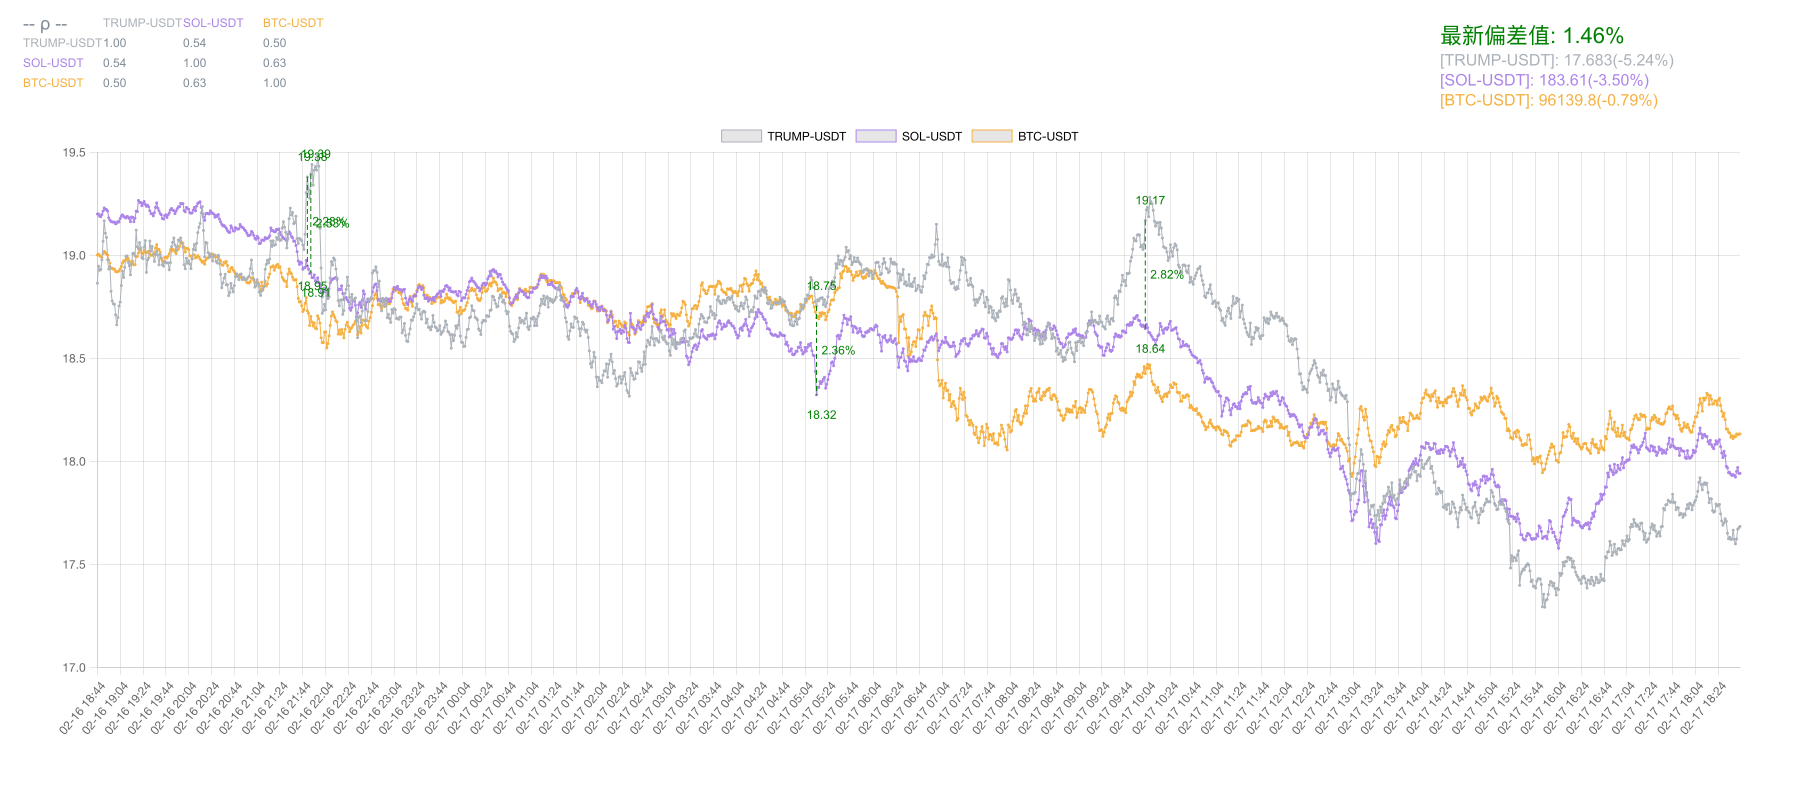
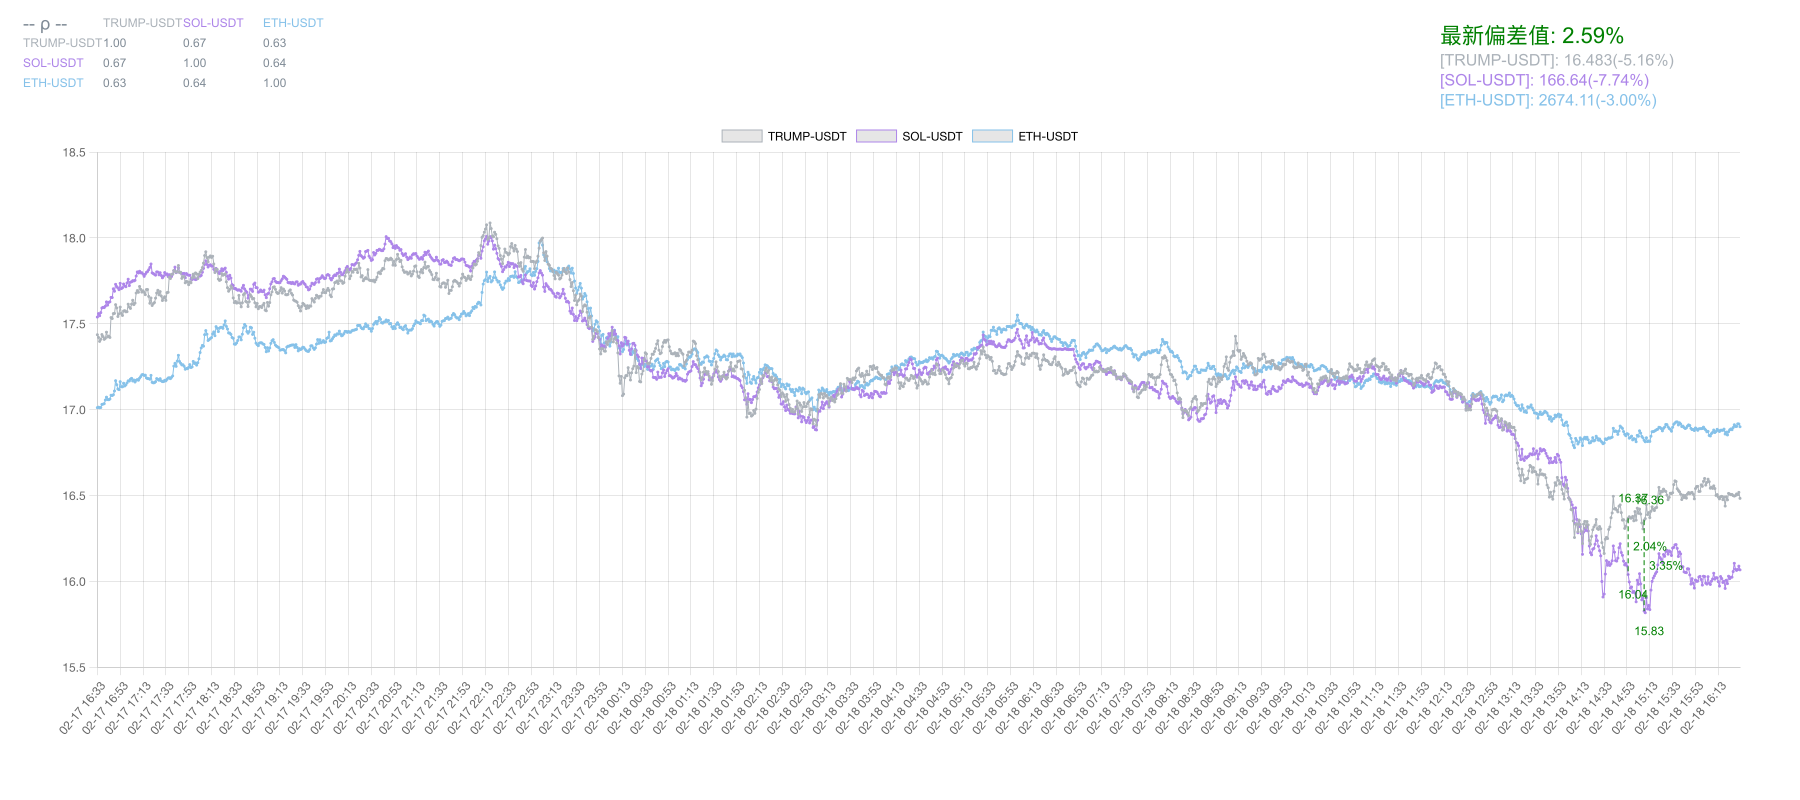
线性拟合剔除离群值

diff --git a/src/regression.js b/src/regression.js
@@ -1,66 +1,98 @@
 import * as math from 'mathjs'
+import {std} from 'mathjs'
+import { paintRegressionWeight } from './paint.js';
+
 
 
 // 找到最佳拟合参数
 export function findBestFitLine(A,B) {
-    return adaptiveWeightedLinearRegression(A, B)
+    // return fitOLS(A, B)
+    return fitStockRelationship(A,B)
+    // return  {a:0.06545 ,b:0}
 }
 
-function adaptiveWeightedLinearRegression(x, y) {
-    if (x.length !== y.length || x.length === 0) {
+
+
+// 基础线性回归
+function fitOLS(stockA, stockB){
+    if (stockA.length !== stockB.length || stockA.length === 0) {
+        throw new Error("Input arrays must have the same non-zero length");
+    }
+    
+    let sumAB = 0, sumAA = 0;
+    const n = stockA.length;
+    
+    for (let i = 0; i < n; i++) {
+        sumAB += stockA[i] * stockB[i];
+        sumAA += stockA[i] * stockA[i];
+    }
+    
+    // 计算 OLS 估计的斜率 a
+    const a = sumAB / sumAA;
+    return {a, b:0}
+}
+
+
+function skew(x) {
+    return x
+    // return 1-Math.abs(x);
+}
+
+function fitStockRelationship(stockA, stockB) {
+    let {a} = fitOLS(stockA,stockB);
+    const distances = stockA.map(it=>it*a).map((s_a,id)=>s_a-stockB[id]);
+    const normalize_distance = normalizeArrayToRange(distances,-1,1).map(skew)
+    paintRegressionWeight(normalize_distance)
+
+    stockA = filterOutsideElements(stockA, distances);
+    stockB = filterOutsideElements(stockB, distances);
+
+    if (stockA.length !== stockB.length || stockA.length === 0) {
         throw new Error("Input arrays must have the same non-zero length");
     }
 
-    const n = x.length;
-    
-    // 第一次回归，获取初步拟合结果
-    const { a: a_init, b: b_init } = ordinaryLeastSquares(x, y);
+    let sumWAB = 0, sumWAA = 0;
+    const n = stockA.length;
 
-    // 计算误差并定义权重：误差小的点权重大
-    const epsilon = 1e-6; // 防止除零
-    let weights = y.map((yi, i) => 1 / (Math.abs(yi - (a_init * x[i] + b_init)) + epsilon));
+    for (let i = 0; i < n; i++) {
+        sumWAB += stockA[i] * stockB[i];
+        sumWAA += stockA[i] * stockA[i];
+    }
 
-    // 重新计算加权最小二乘法回归
-    return weightedLeastSquares(x, y, weights);
+    a = sumWAB / sumWAA;
+
+    return { a,b:0 };
+  }
+
+
+  // 归一化数组
+  function normalizeArrayToRange(arr, a = -1, b = 1) {
+    const min = Math.min(...arr);
+    const max = Math.max(...arr);
+
+    if (min === max) {
+        return arr.map(() => a); // 如果所有值相同，返回全为 a 的数组
+    }
+
+    return arr.map(x => a + (x - min) * (b - a) / (max - min));
 }
 
 
-// 计算普通最小二乘法（OLS）
-function ordinaryLeastSquares(x, y) {
-    const n = x.length;
-    const sumX = math.sum(x);
-    const sumY = math.sum(y);
-    const sumXX = math.sum(x.map(xi => xi * xi));
-    const sumXY = math.sum(x.map((xi, i) => xi * y[i]));
+// 查找数组中ZScore2以内的元素
+function filterOutliersIndices(arr, threshold = 1.5) {
+    const mean = arr.reduce((sum, val) => sum + val, 0) / arr.length;
+    const std = Math.sqrt(arr.reduce((sum, val) => sum + Math.pow(val - mean, 2), 0) / arr.length);
 
-    const denominator = n * sumXX - sumX * sumX;
-    if (denominator === 0) {
-        throw new Error("Denominator is zero, cannot compute regression");
-    }
-
-    const a = (n * sumXY - sumX * sumY) / denominator;
-    const b = (sumY * sumXX - sumX * sumXY) / denominator;
-    
-    return { a, b };
+    return arr
+        .map((val, index) => ({ index, zScore: (val - mean) / std }))
+        .filter(item => Math.abs(item.zScore) < threshold)
+        .map(item => item.index);
 }
 
 
-
-// 计算加权最小二乘法（WLS）
-function weightedLeastSquares(x, y, weights) {
-    const sumW = math.sum(weights);
-    const sumWX = math.sum(weights.map((w, i) => w * x[i]));
-    const sumWY = math.sum(weights.map((w, i) => w * y[i]));
-    const sumWXX = math.sum(weights.map((w, i) => w * x[i] * x[i]));
-    const sumWXY = math.sum(weights.map((w, i) => w * x[i] * y[i]));
-
-    const denominator = sumW * sumWXX - sumWX * sumWX;
-    if (denominator === 0) {
-        throw new Error("Denominator is zero, cannot compute regression");
-    }
-
-    const a = (sumW * sumWXY - sumWX * sumWY) / denominator;
-    const b = (sumWY * sumWXX - sumWX * sumWXY) / denominator;
-
-    return { a, b };
+function filterOutsideElements(data,distances){
+    console.log('length ',data.length)
+    const saved_arr = filterOutliersIndices(distances);
+    console.log('saved ',saved_arr.length)
+    return data.filter((_, index) => saved_arr.includes(index))
 }

diff --git a/src/paint.js b/src/paint.js
@@ -242,3 +242,46 @@ function drawTable(ctx, data, headers, themes) {
     });
   });
 }
+
+
+
+
+// 打印拟合权重
+export function paintRegressionWeight (weights){
+  const data = readLastNKeyValues(1000);
+  // 计算差值并添加注释
+  const configuration = {
+    // type: 'scatter',
+    type:'line',
+    data: {
+        labels:weights.map((it,id)=>id),
+        datasets: [{
+          label: '拟合权重',
+          data: weights.slice().reverse(),
+          borderColor: '#ad85e9',
+          pointBackgroundColor:'#ad85e9',
+          borderWidth: 1.2,
+          fill: false,  // 不填充颜色
+          pointRadius: 1.2, // 设置点的大小
+          tension: 0.2  // 设置曲线平滑度 (0 为折线)
+        }
+      ]
+    },
+    options: {
+      responsive: true, // 确保响应式布局
+      maintainAspectRatio: false, // 允许自定义宽高比例
+      plugins: {
+        legend: { labels: { color: 'black' } }
+      },
+      layout: {
+        padding: 40
+      },
+    },
+  };
+
+  (async () => {
+    const image = await chartJSNodeCanvas.renderToBuffer(configuration);
+    fs.writeFileSync('./chart/weights.jpg', image);
+    console.log('图片已生成: β.jpg');
+  })();
+}

diff --git a/main.js b/main.js
@@ -1,6 +1,6 @@
 import WebSocket from 'ws'
 import express from 'express'
-import { calculateHedgeRatio, findBestFitLine } from './src/regression.js'
+import { findBestFitLine } from './src/regression.js'
 import { paint } from './src/paint.js'
 import { getPrices, dataset, toTrickTimeMark, formatTimestamp, getTsOfStartOfToday } from './src/tools.js'
 import { calculateReturns } from './src/mathmatic.js'
@@ -20,8 +20,8 @@ const candle_limit = 2400;
 const assets = [
   {id: 'TRUMP-USDT', theme:'#abb2b9'},
   {id: 'SOL-USDT', theme:'#ad85e9'},
-  {id: 'BTC-USDT', theme:'#f5b041'},
-  // {id: 'ETH-USDT', theme:'#85c1e9'},
+  // {id: 'BTC-USDT', theme:'#f5b041'},
+  {id: 'ETH-USDT', theme:'#85c1e9'},
 ]
 
 const params = {
@@ -47,7 +47,6 @@ const scaled_prices = klines.map((it,id)=>{
   if(id==0) return dataset(prices);
   const {a, b} = findBestFitLine(prices, refer_kline.prices);
   writeKeyValuePair(formatTimestamp(Date.now()),a)
-  // const {a,b } = { a: 0.45, b: -68.5 }
   console.log("拟合的多项式系数:", assetIds[id], {a, b});
   return dataset(prices.map(it=>a*it+b));
 
